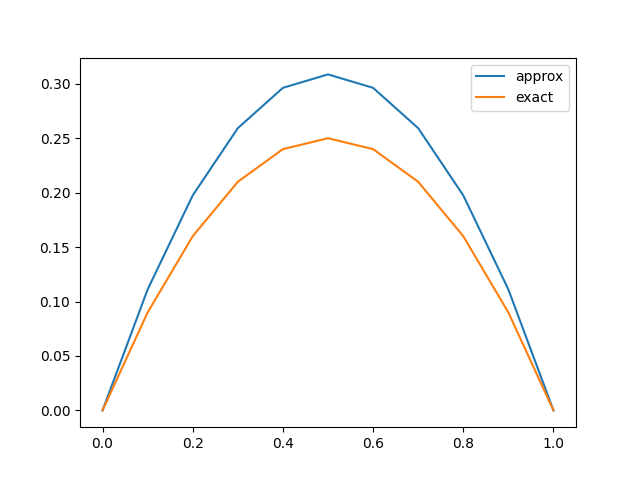
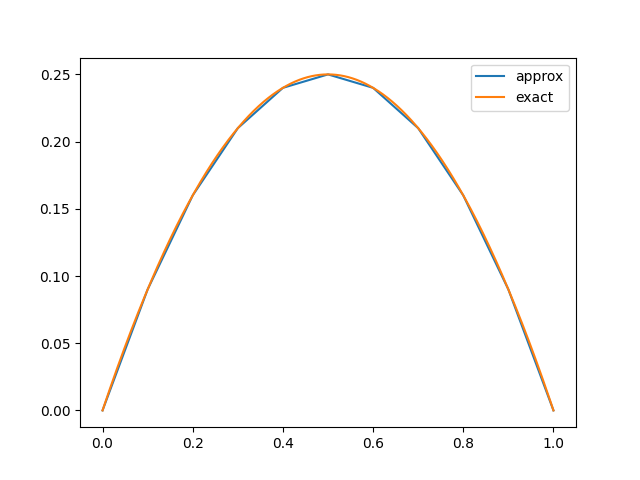
TMA right solution

diff --git a/tma/tma.py b/tma/tma.py
@@ -17,97 +17,44 @@ y1 = 0
 
 # GLOBAL VARIABLES
 N = 1000
-h = 1 / (N - 1)
+h = 1 / N
 
-def A(row_index):
-	if row_index == N:
-		return 0
-	return 1
-
-def B(row_index):
-	if row_index == 0:
-		return 0
-	return 1
-
-def C(row_index):
-	if row_index == 0 or row_index == N:
-		return 1
-	return -2
-
-def D(row_index):
-	if row_index == 0:
-		return y0
-	if row_index == N:
-		return y1
-	return -2 * h**2
-
-def getSystem():
-
-	matrix = []
-	vector = []
-
-	for i in range(0, N + 1):
-		matrix.append([0] * (N + 1))
-		vector.append(0)
-
-		if 0 <= i - 1 <= N:
-			matrix[i][i - 1] = A(i)
-		if 0 <= i <= N:
-			matrix[i][i] =	 C(i)
-			vector[i] = D(i)
-		if 0 <= i + 1 <= N:
-			matrix[i][i + 1] = B(i)
-
-	return (matrix, vector)
-
-def TMA(matrix, vector):
+def TMA():
 	alpha = [0] * (N + 1)
 	beta = [0] * (N + 1)
 	x = [0] * (N + 1)
 
-	if (matrix[0][0] == 0):
-		print("Can not solve the system!");
-		return None
+	alpha[0] = 0
+	beta[0] = 0
 
-	alpha[1] = -matrix[0][1] / matrix[0][0]
-	beta[1] = vector[0] / matrix[0][0]
+	for i in range(1, N + 1, 1):
+		alpha[i] = -1 / (-2 + alpha[i - 1])
+		beta[i] = ((-2 * h**2) + (-1) * beta[i - 1]) / (-2 + alpha[i - 1])
 
-	for i in range(2, N + 1):
-		div = matrix[i - 1][i - 2] * alpha[i - 1] + matrix[i - 1][i - 1]
-		if div == 0:
-			print("Can not solve the system!");
-			return None
-
-		alpha[i] = -matrix[i - 1][i] / div
-		beta[i] = (vector[i - 1] - matrix[i - 1][i - 2] * beta[i - 1]) / div
-
-	if matrix[N][N] + matrix[N][N - 1] * alpha[N] == 0:
-		print("Can not solve the system!");
-		return None
-
-	x[N] = (vector[N] - matrix[N][N - 1] * beta[N]) / (matrix[N][N] + matrix[N][N - 1] * alpha[N]);
+	x[N] = 0
 	for i in range(N - 1, -1, -1):
-		x[i] = alpha[i + 1] * x[i + 1] + beta[i + 1]
+		x[i] = alpha[i] * x[i + 1] + beta[i]
 
 	return x
 
 def drawPlot(approx):
 
-	X = np.linspace(0, 1, N + 1)
-	exact = [-x*x+(y1-y0+1)*x+y0 for x in X]
+	X_approx = np.linspace(0, 1, N + 1)
+	X_exact = np.linspace(0, 1, 1001)
 
-	approx_plot = plt.plot(X, approx)
-	exact_plot = plt.plot(X, exact)
+	exact = [-x*x+(y1-y0+1)*x+y0 for x in X_exact]
+
+	approx_plot = plt.plot(X_approx, approx)
+	exact_plot = plt.plot(X_exact, exact)
 
 	plt.legend(["approx", "exact"])
 
-
-	plt.savefig("TMA.png")
+	plt.savefig("TMA_1000.png")
 
 def main():
 
-	matrix, vector = getSystem()
-	X = TMA(matrix, vector)
+	X = TMA()
+	
 	drawPlot(X)
 
 main()
